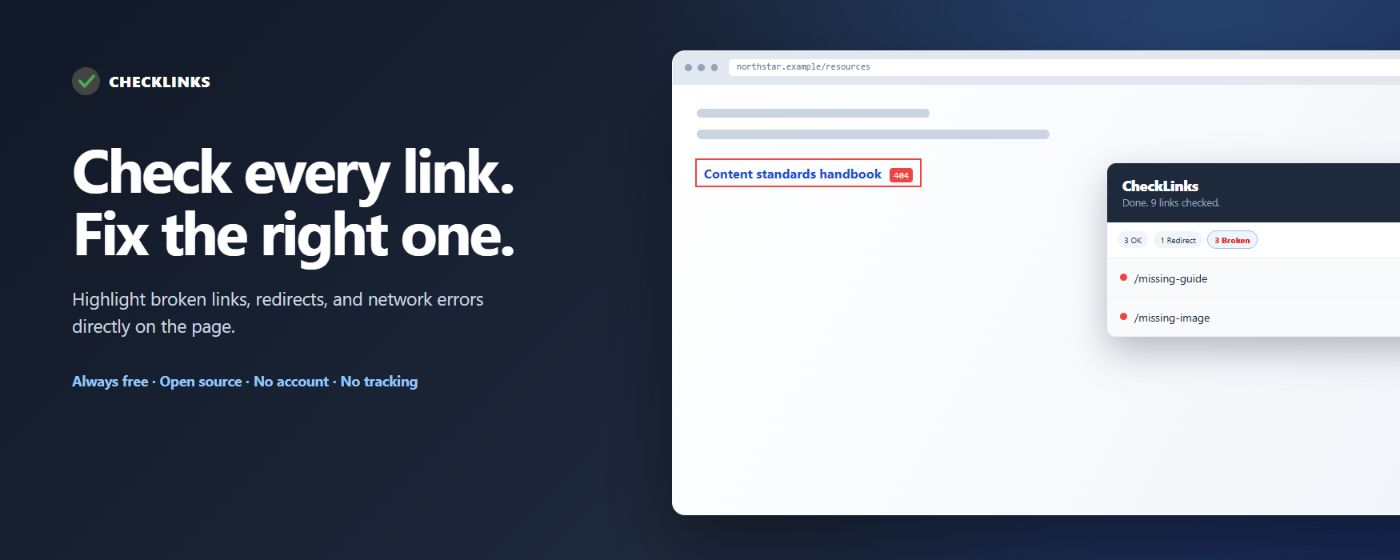
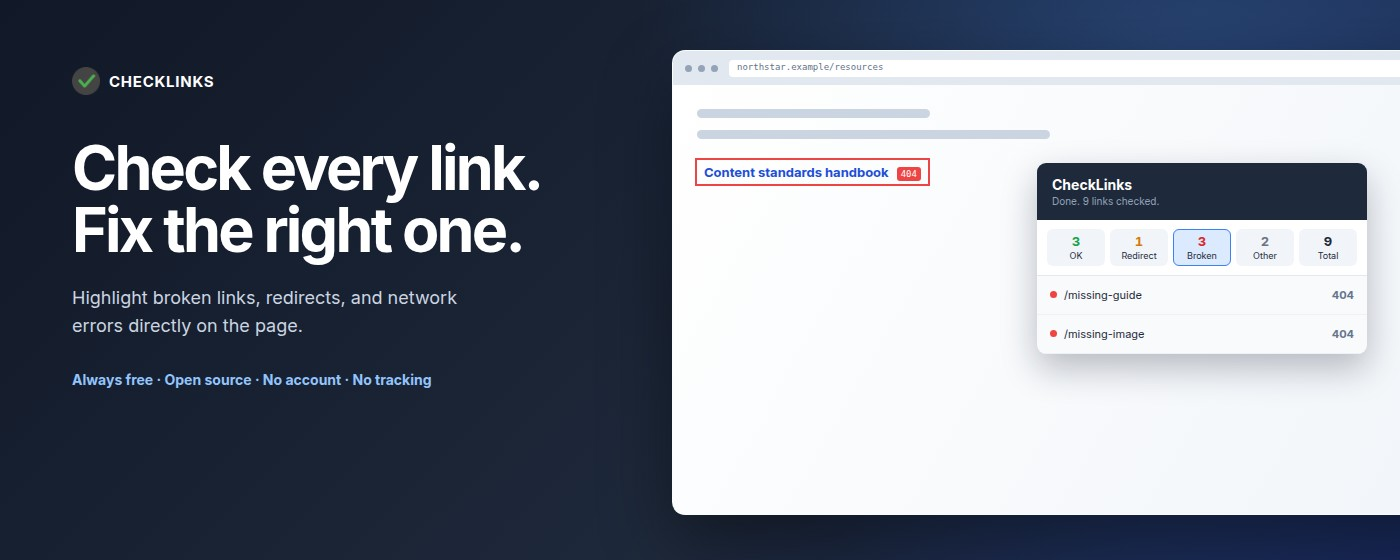
Update marquee promo art for the new counter layout
Redraw the illustrated panel in promo.html with the five stacked summary
counters (Broken selected), move the panel in so all five fit, widen the
headline column, and recapture the 1400x560 marquee. The small promo
hides the counters, so it is unchanged.

Claude-Session: https://claude.ai/code/session_01UjHWK3qN631iq2ZE2eEGin

diff --git a/store-assets/capture/promo.html b/store-assets/capture/promo.html
@@ -26,9 +26,14 @@
     .panel-head { padding: 10px 13px; background: #1e293b; color: #fff; }
     .panel-title { font-size: 12px; font-weight: 800; }
     .panel-status { margin-top: 2px; color: #94a3b8; font-size: 9px; }
-    .stats { display: flex; gap: 5px; padding: 9px 10px; background: #fff; border-bottom: 1px solid #e2e8f0; }
-    .stat { padding: 3px 7px; border-radius: 10px; background: #f1f5f9; font-size: 8px; white-space: nowrap; }
-    .stat.red { color: #dc2626; font-weight: 800; outline: 1px solid #93c5fd; }
+    .stats { display: grid; grid-template-columns: repeat(5, minmax(0, 1fr)); gap: 5px; padding: 9px 10px; background: #fff; border-bottom: 1px solid #e2e8f0; }
+    .stat { display: flex; flex-direction: column; align-items: center; padding: 4px 3px; border-radius: 6px; background: #f1f5f9; color: #1e293b; font-size: 8px; line-height: 1.3; white-space: nowrap; }
+    .stat b { font-size: 11px; font-weight: 800; font-variant-numeric: tabular-nums; }
+    .stat.ok b { color: #16a34a; }
+    .stat.redirect b { color: #d97706; }
+    .stat.red b { color: #dc2626; }
+    .stat.other b { color: #6b7280; }
+    .stat.red { background: #dbeafe; outline: 1.5px solid #3b82f6; outline-offset: -1px; }
     .result { display: grid; grid-template-columns: 7px 1fr auto; gap: 7px; align-items: center; padding: 9px 10px; border-bottom: 1px solid #edf2f7; font-size: 9px; }
     .result-dot { width: 7px; height: 7px; border-radius: 50%; background: #ef4444; }
     .result-status { color: #64748b; font-weight: 800; }
@@ -45,15 +50,17 @@
     .small .result { padding: 7px 8px; font-size: 7px; }
     .small .page-link { font-size: 9px; }
 
-    .marquee .copy { position: absolute; left: 72px; top: 67px; width: 460px; z-index: 2; }
+    .marquee .copy { position: absolute; left: 72px; top: 67px; width: 560px; z-index: 2; }
     .marquee h1 { margin-top: 42px; font-size: 61px; }
     .marquee .sub { width: 430px; margin-top: 23px; font-size: 18px; line-height: 1.55; }
     .marquee .trust { margin-top: 31px; font-size: 14px; }
     .marquee .page-card { right: -72px; top: 50px; width: 800px; height: 465px; }
-    .marquee .panel { right: 34px; top: 78px; width: 330px; }
+    .marquee .panel { right: 104px; top: 78px; width: 330px; }
     .marquee .panel-head { padding: 13px 15px; }
     .marquee .panel-title { font-size: 14px; }
     .marquee .panel-status { font-size: 10px; }
+    .marquee .stat { font-size: 9px; }
+    .marquee .stat b { font-size: 13px; }
     .marquee .result { padding: 12px 13px; font-size: 11px; }
   </style>
 </head>
@@ -72,7 +79,7 @@
         <span class="page-link">Content standards handbook <b>404</b></span>
         <div class="panel">
           <div class="panel-head"><div class="panel-title">CheckLinks</div><div class="panel-status">Done. 9 links checked.</div></div>
-          <div class="stats"><span class="stat">3 OK</span><span class="stat">1 Redirect</span><span class="stat red">3 Broken</span></div>
+          <div class="stats"><span class="stat ok"><b>3</b>OK</span><span class="stat redirect"><b>1</b>Redirect</span><span class="stat red"><b>3</b>Broken</span><span class="stat other"><b>2</b>Other</span><span class="stat"><b>9</b>Total</span></div>
           <div class="result"><span class="result-dot"></span><span>/missing-guide</span><span class="result-status">404</span></div>
           <div class="result"><span class="result-dot"></span><span>/missing-image</span><span class="result-status">404</span></div>
         </div>
